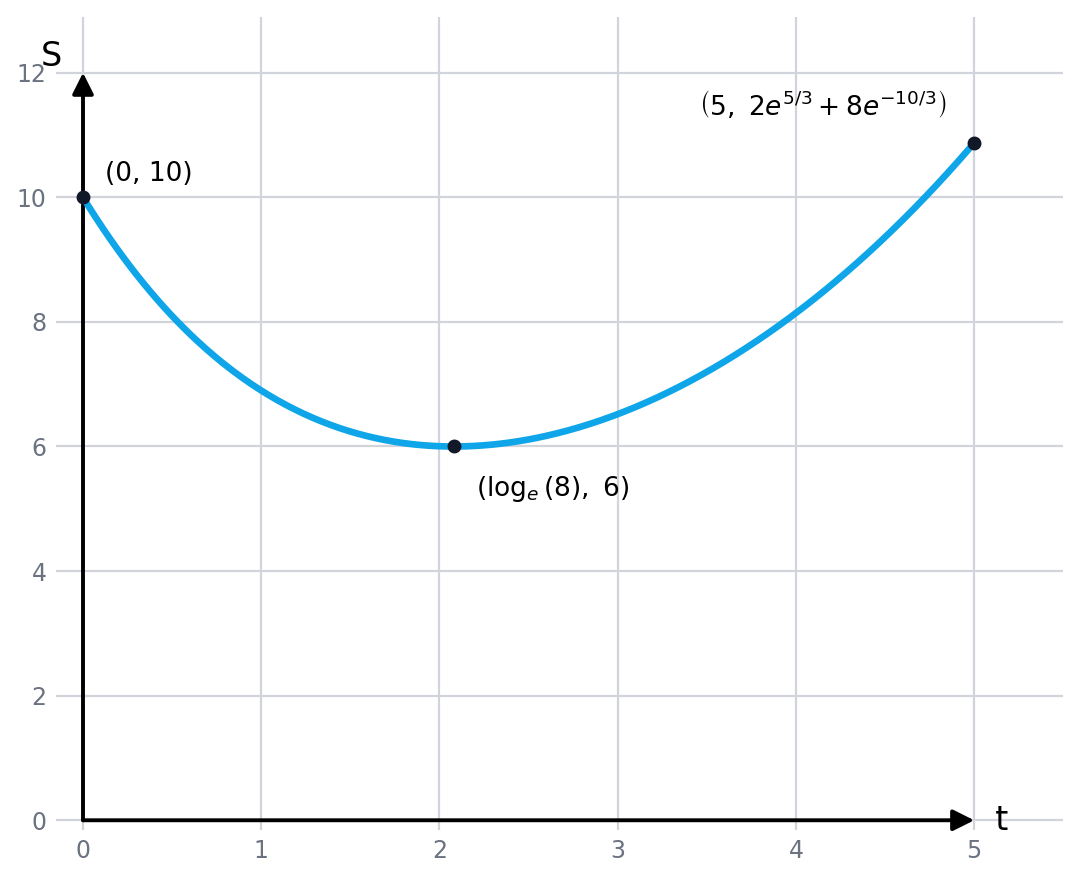
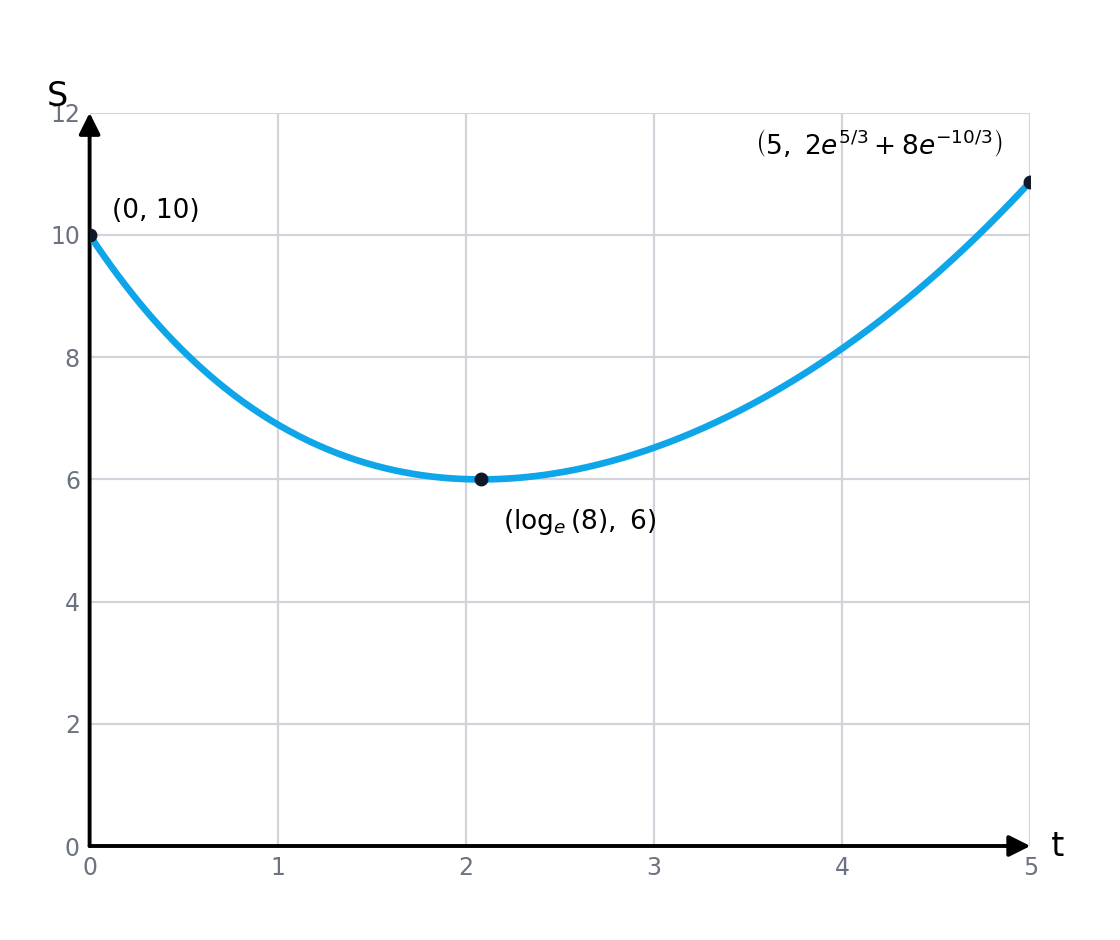
Fix graph axis-clipping and extend matplotlib standard to ship-paths diagram
Regenerate the three matplotlib sketches (2019 Ex1 Q5, 2017 Ex1 Q3, 2015 Ex2
Q5) with strict xlim/ylim and annotation_clip=False on the axis arrows, so
plotted curves never render past the given axis range. Update
AUTHORING_GUIDE.md's plotted-curve standard to require this instead of the
earlier (incorrect) guidance that asymptotes could run off the frame.

Audited every remaining hand-drawn SVG diagram across Methods and
Specialist for the same "sketch it yourself on blank VCAA axes" pattern.
Only SpecialistQ4_2016's ship-paths diagram matched (a genuine Cartesian
sketch-on-given-axes, not an Argand-plane or schematic illustration) and
has been converted to matplotlib under the same house style.

diff --git a/src/tools/worked-solutions/questions/SpecialistQ4_2016.tsx b/src/tools/worked-solutions/questions/SpecialistQ4_2016.tsx
@@ -1,10 +1,13 @@
 // 2016 Specialist Mathematics — Exam 2, Question 4 (10 marks).
 // Two ships' position vectors: collision check, angle between paths, closest approach.
 // Question text transcribed from the original paper; worked solutions below are original.
-// No video walkthrough yet — the tutor will record and add these later.
+// Part (b)'s sketch axes VCAA supplied were blank, so the plotted ship paths are this
+// site's own original content — plotted with matplotlib, not cropped from anything VCAA
+// printed. No video walkthrough yet — the tutor will record and add these later.
 
 import Katex from '../../../components/Katex'
 import { PartCard, WorkingTable, type WorkingRow, type SAExaminerStats } from '../QuestionParts'
+import shipPathsSrc from './spec-2016exam2-q4b-ship-paths.png'
 
 const EXAMINER_A: SAExaminerStats = {
   marks: [23, 18, 58],
@@ -97,8 +100,12 @@ export default function SpecialistQ4_2016() {
     },
     {
       working: (
-        <div className="bg-gray-50 dark:bg-gray-800/60 border border-gray-100 dark:border-gray-800 rounded-2xl p-3 w-fit">
-          <ShipPathsDiagram />
+        <div className="bg-white border border-gray-200 dark:border-gray-800 rounded-xl p-3 w-fit">
+          <img
+            src={shipPathsSrc}
+            alt="Ship A's path from (10,0) to (-5,9) and ship B's path from (-8,-2) to (0,8), both relative to the lighthouse at the origin — this site's own sketch, not a VCAA diagram"
+            className="w-full max-w-[320px]"
+          />
         </div>
       ),
       reason: (
@@ -195,45 +202,5 @@ export default function SpecialistQ4_2016() {
         <WorkingTable rows={rowsDii} />
       </PartCard>
     </div>
-  )
-}
-
-// Lighthouse-at-origin sketch: ship A's path (sky) and ship B's path (amber), each drawn
-// over the visible t-range with an arrowhead showing the direction of increasing t.
-function ShipPathsDiagram() {
-  const A1 = { x: 300, y: 150 } // t=-1 -> (10,0)
-  const A2 = { x: 75, y: 15 } // t=2 -> (-5,9), direction of travel
-  const B1 = { x: 30, y: 180 } // t=0 -> (-8,-2)
-  const B2 = { x: 150, y: 30 } // t=2 -> (0,8), direction of travel
-
-  return (
-    <svg viewBox="0 0 300 300" width={260} height={260}>
-      {[-10, -5, 0, 5, 10].map(n => (
-        <g key={n}>
-          <line x1={150 + n * 15} y1={0} x2={150 + n * 15} y2={300} stroke="#e5e7eb" strokeWidth={1} />
-          <line x1={0} y1={150 - n * 15} x2={300} y2={150 - n * 15} stroke="#e5e7eb" strokeWidth={1} />
-        </g>
-      ))}
-      <line x1={0} y1={150} x2={300} y2={150} stroke="#9ca3af" strokeWidth={1.5} />
-      <line x1={150} y1={0} x2={150} y2={300} stroke="#9ca3af" strokeWidth={1.5} />
-
-      <circle cx={150} cy={150} r={4} fill="#374151" />
-      <text x={156} y={146} fontSize={11} className="fill-gray-700 dark:fill-gray-300">O</text>
-
-      <defs>
-        <marker id="arrowA" markerWidth="8" markerHeight="8" refX="4" refY="4" orient="auto">
-          <path d="M0,0 L8,4 L0,8 Z" fill="#0ea5e9" />
-        </marker>
-        <marker id="arrowB" markerWidth="8" markerHeight="8" refX="4" refY="4" orient="auto">
-          <path d="M0,0 L8,4 L0,8 Z" fill="#f97316" />
-        </marker>
-      </defs>
-
-      <line x1={A1.x} y1={A1.y} x2={A2.x} y2={A2.y} stroke="#0ea5e9" strokeWidth={2.5} markerEnd="url(#arrowA)" />
-      <line x1={B1.x} y1={B1.y} x2={B2.x} y2={B2.y} stroke="#f97316" strokeWidth={2.5} markerEnd="url(#arrowB)" />
-
-      <text x={A1.x - 22} y={A1.y - 8} fontSize={12} className="fill-sky-600 dark:fill-sky-400" fontWeight={700}>A</text>
-      <text x={B1.x + 6} y={B1.y + 14} fontSize={12} className="fill-orange-600 dark:fill-orange-400" fontWeight={700}>B</text>
-    </svg>
   )
 }

diff --git a/src/tools/worked-solutions/AUTHORING_GUIDE.md b/src/tools/worked-solutions/AUTHORING_GUIDE.md
@@ -270,13 +270,19 @@ see §2, e.g. `meth-2019exam1-q5-truncus-sketch.png`). Python is at
   curve itself. Check the rendered PNG at full size before using it; nudge an
   `ax.annotate`'s `xytext` offset (or its `ha`/`va`) whenever a label sits on top of the
   axis line, another label, a tick number, or the curve.
-- **The plotted curve stays within the given axis range** — sample the function only over
-  the *x*-domain the question actually restricts it to (which may be narrower than the
-  full axis range VCAA drew for framing/labelling purposes; don't sample past it just
-  because the grid extends further). Set `xlim`/`ylim` to the given range itself (plus the
-  small margin `draw_axes` needs for the arrowhead), not a range that happens to fit the
-  curve — a vertical asymptote will still run off the top/bottom of frame as it should,
-  that's expected, not an overlap or an extension to avoid.
+- **The plotted curve never extends past the given axis range — including at an
+  asymptote.** Sample the function only over the *x*-domain the question actually
+  restricts it to (which may be narrower than the full axis range VCAA drew for
+  framing/labelling purposes — don't sample past it just because the grid extends
+  further). Then set `ax.set_xlim(xmin, xmax)` / `ax.set_ylim(ymin, ymax)` to the given
+  range **exactly, with no extra padding** — matplotlib clips any plotted line to the
+  axes' own limits automatically, so a strict `ylim` is what stops a vertical asymptote
+  from visibly poking up past the top of the grid (padding the limits to make room for
+  the arrowhead is exactly what lets the curve overshoot — don't do that). To keep the
+  arrowhead itself from being clipped right at that same boundary, pass
+  `annotation_clip=False` to the `ax.annotate(...)` calls that draw the two axis arrows;
+  text labels don't need this (`clip_on=False` is matplotlib's default for text, so the
+  `x`/`y` labels sitting just past the tip already render in full).
 - **Gridlines**: shown, light grey, behind the curve (`zorder`) and behind nothing else.
 - **Axis range and step size must match VCAA's own blank grid exactly** — re-open the
   source PDF page for that part and read off the printed range and tick spacing (the two
